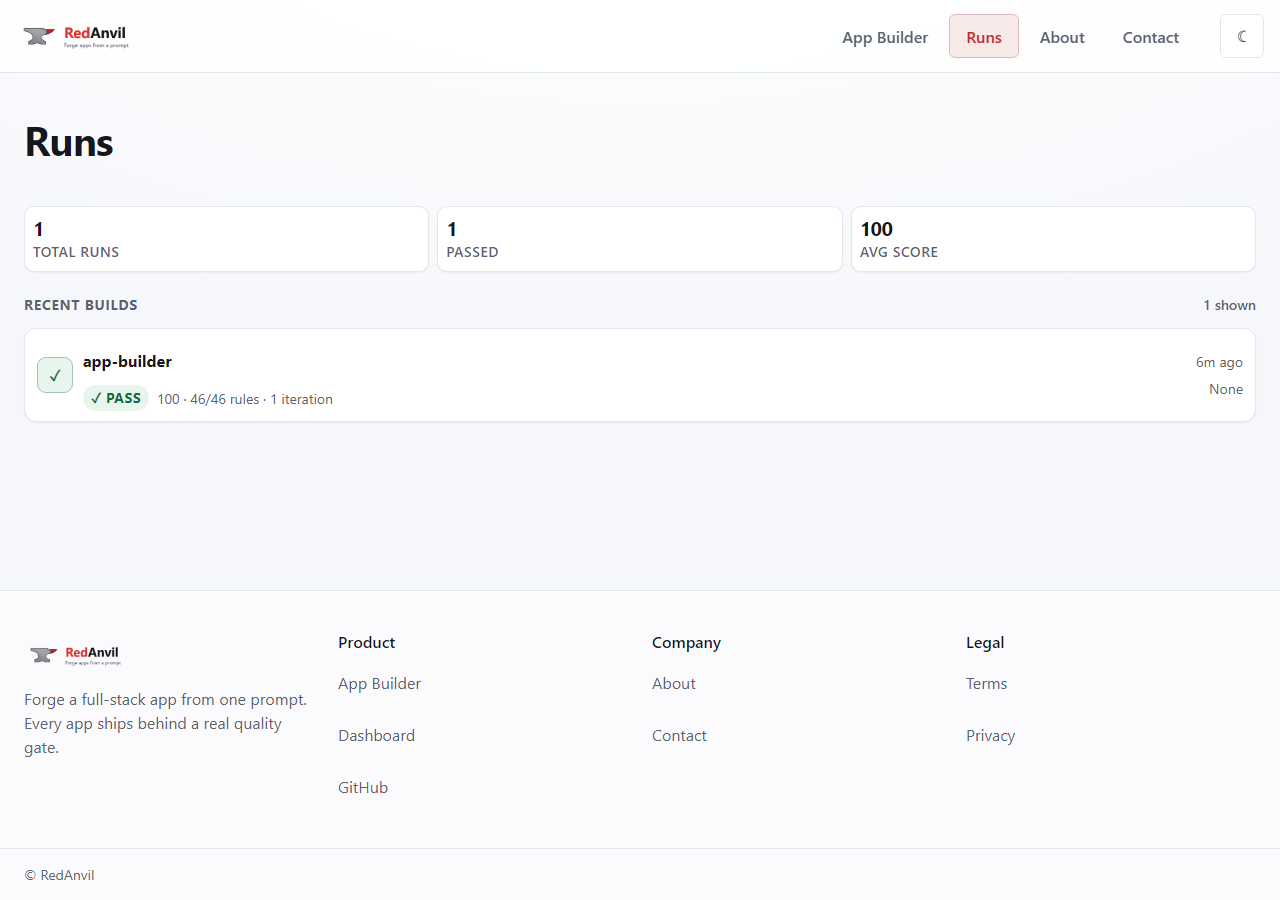
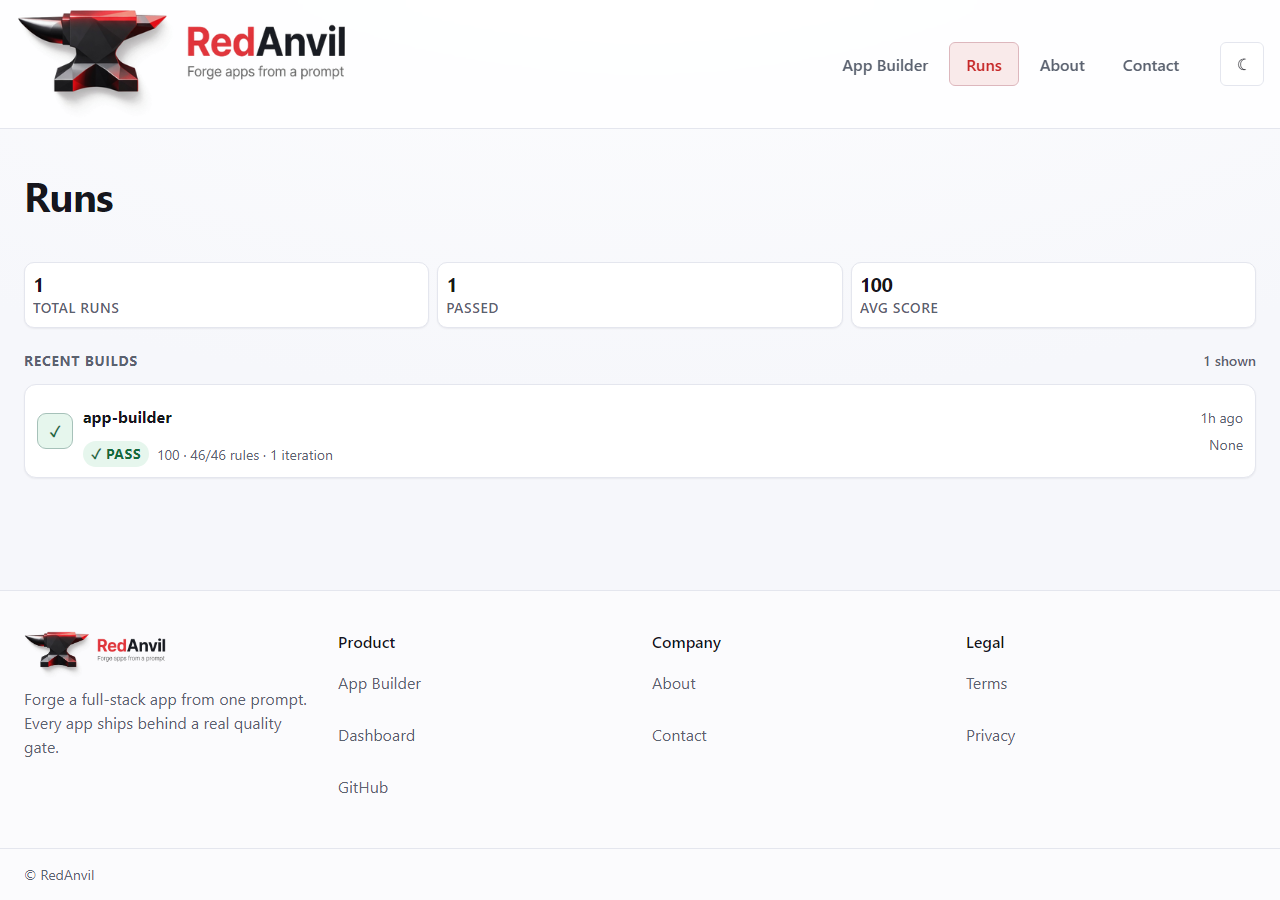
feat(gate): lg-runtime-parity is now a real boot-and-curl check
rules/loop-gate.md declared runtime parity a blocker and nothing implemented it.
The only related rule was a static grep for Node globals, which cannot see a
Workers-incompatible transitive dependency — the corpus calls that failure class
the most repeated production failure in this environment.

u-plat-runtime-parity boots the app on the real Workers runtime via wrangler
pages dev, then requests / and every discovered functions/api/health.*. Non-200,
invalid health JSON or a runtime throw fails. No wrangler.toml gives exit 3.

Verified independently, not from the delegation's report: app-builder passes
(/ 200, /api/health 200), the repo root correctly reports n/a, and a purpose-built
app whose health endpoint returns 500 FAILS with exit 1 and writes ok:false —
so the check is not vacuous. No workerd or wrangler process survives a run.

diff --git a/app-builder/src/components/shell/Logo.tsx b/app-builder/src/components/shell/Logo.tsx
@@ -30,7 +30,7 @@ export function Logo({ height = LOGO_HEIGHT }: LogoProps): JSX.Element {
         src="/logo-lockup.png"
         alt=""
         height={height}
-        style={{ height, width: 'auto', maxWidth: 'min(64vw, 440px)', objectFit: 'contain' }}
+        style={{ height, width: 'auto', maxWidth: 'min(52vw, 440px)', objectFit: 'contain' }}
       />
       <img
         className="ra-logo-dark"
@@ -38,7 +38,7 @@ export function Logo({ height = LOGO_HEIGHT }: LogoProps): JSX.Element {
         alt=""
         aria-hidden="true"
         height={height}
-        style={{ height, width: 'auto', maxWidth: 'min(64vw, 440px)', objectFit: 'contain' }}
+        style={{ height, width: 'auto', maxWidth: 'min(52vw, 440px)', objectFit: 'contain' }}
       />
     </a>
   );

diff --git a/dashboard/src/components/shell/Logo.tsx b/dashboard/src/components/shell/Logo.tsx
@@ -30,7 +30,7 @@ export function Logo({ height = LOGO_HEIGHT }: LogoProps): JSX.Element {
         src="/logo-lockup.png"
         alt=""
         height={height}
-        style={{ height, width: 'auto', maxWidth: 'min(64vw, 440px)', objectFit: 'contain' }}
+        style={{ height, width: 'auto', maxWidth: 'min(52vw, 440px)', objectFit: 'contain' }}
       />
       <img
         className="ra-logo-dark"
@@ -38,7 +38,7 @@ export function Logo({ height = LOGO_HEIGHT }: LogoProps): JSX.Element {
         alt=""
         aria-hidden="true"
         height={height}
-        style={{ height, width: 'auto', maxWidth: 'min(64vw, 440px)', objectFit: 'contain' }}
+        style={{ height, width: 'auto', maxWidth: 'min(52vw, 440px)', objectFit: 'contain' }}
       />
     </a>
   );
